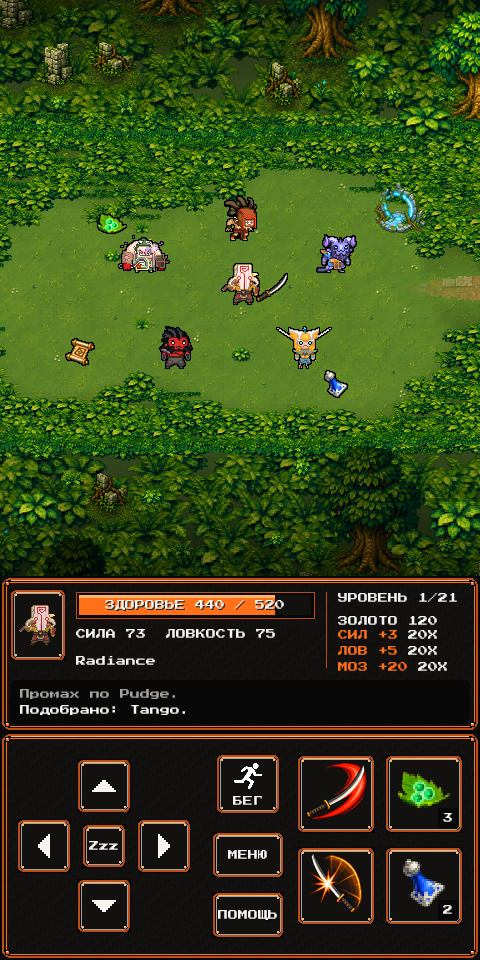
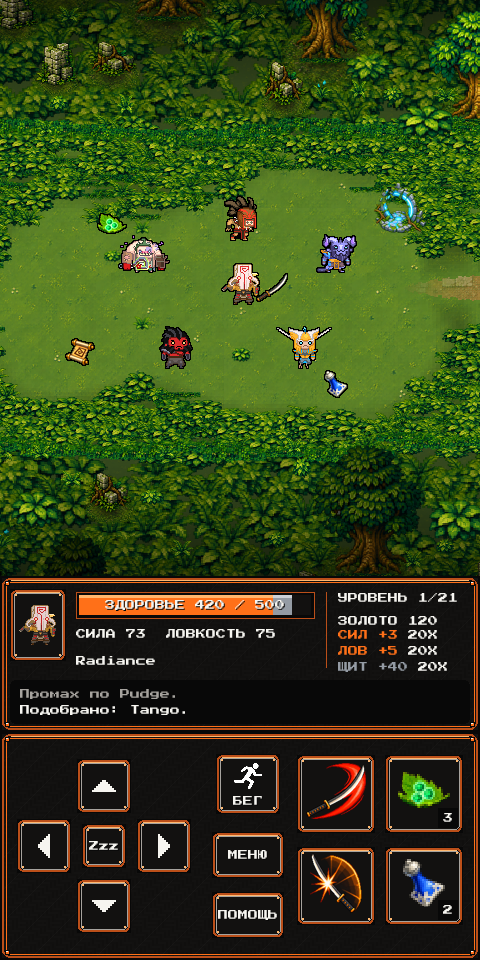
Keep enemies off the portal and fix Riki; reshoot README media
No enemy walks, steps or blinks onto the portal any more. Riki walks when
he is outside a room instead of standing in a corridor for good, never
blinks onto his own cell, and starts hidden on a new level. The golden
replay is regenerated for the new enemy movement. README screenshots and
fight GIFs are reshot with the Clarity shield, and the README describes
the shield, Riki and the portal.

diff --git a/internal/domain/opponent.go b/internal/domain/opponent.go
@@ -126,11 +126,13 @@ func baseStats(t OpponentType) (health, agility, strength int, h hostility) {
 }
 
 // NewOpponent создаёт врага заданного типа (для тестов и точечных спавнов).
+// Riki с самого начала невидим, иначе до первого хода врагов его было бы
+// видно на каждом новом уровне.
 func NewOpponent(t OpponentType) *Opponent {
 	health, agility, strength, h := baseStats(t)
 	return &Opponent{
 		Type: t, Health: health, Agility: agility, Strength: strength,
-		hostility: h, IsVisible: true, Facing: 1, vampireFirstStrike: true,
+		hostility: h, IsVisible: t != Ghost, Facing: 1, vampireFirstStrike: true,
 	}
 }
 
@@ -200,17 +202,26 @@ func shuffled(src []Point, rng ...*rand.Rand) []Point {
 	return out
 }
 
-// canStep — можно ли врагу встать на клетку: пол комнаты или коридор,
-// не занятые другим живым врагом.
-func (o *Opponent) canStep(x, y int, player Point, rooms []*Room, passages []Rect, opponents []*Opponent) bool {
-	// The hero's cell is never free: enemies attack it from next to it instead.
-	if !InBounds(x, y) || (Point{x, y}) == player {
+// moveArea: всё, от чего зависит ход врага: где стоят игрок и портал, где
+// пол и кто ещё на уровне.
+type moveArea struct {
+	player, exit Point
+	rooms        []*Room
+	passages     []Rect
+	opponents    []*Opponent
+}
+
+// canStep: можно ли врагу встать на клетку: пол комнаты или коридор, не
+// занятые другим живым врагом. Клетки игрока и портала всегда заняты: враг
+// бьёт игрока с соседней клетки, а портал никогда не загораживает.
+func (o *Opponent) canStep(x, y int, a moveArea) bool {
+	if !InBounds(x, y) || (Point{x, y}) == a.player || (Point{x, y}) == a.exit {
 		return false
 	}
-	if !IsAnyRoomFloorCell(x, y, rooms) && !InPassageCenter(x, y, passages) {
+	if !IsAnyRoomFloorCell(x, y, a.rooms) && !InPassageCenter(x, y, a.passages) {
 		return false
 	}
-	for _, other := range opponents {
+	for _, other := range a.opponents {
 		if other != o && other.IsAlive() && other.X == x && other.Y == y {
 			return false
 		}
@@ -218,9 +229,9 @@ func (o *Opponent) canStep(x, y int, player Point, rooms []*Room, passages []Rec
 	return true
 }
 
-// pathStep — первый шаг кратчайшего пути к цели (обход в ширину) или nil.
-func (o *Opponent) pathStep(tx, ty int, rooms []*Room, passages []Rect, opponents []*Opponent) *Point {
-	player := Point{tx, ty}
+// pathStep: первый шаг кратчайшего пути к игроку (обход в ширину) или nil.
+func (o *Opponent) pathStep(a moveArea) *Point {
+	tx, ty := a.player.X, a.player.Y
 	if o.X == tx && o.Y == ty {
 		return nil
 	}
@@ -244,7 +255,7 @@ func (o *Opponent) pathStep(tx, ty int, rooms []*Room, passages []Rect, opponent
 				return step
 			}
 			p := Point{nx, ny}
-			if !visited[p] && o.canStep(nx, ny, player, rooms, passages, opponents) {
+			if !visited[p] && o.canStep(nx, ny, a) {
 				visited[p] = true
 				queue = append(queue, node{nx, ny, step})
 			}
@@ -254,26 +265,31 @@ func (o *Opponent) pathStep(tx, ty int, rooms []*Room, passages []Rect, opponent
 }
 
 // patternStep — ход по собственному паттерну типа, когда игрок не преследуется.
-func (o *Opponent) patternStep(player Point, rooms []*Room, passages []Rect, opponents []*Opponent) *Point {
+func (o *Opponent) patternStep(a moveArea) *Point {
 	switch o.Type {
 	case Zombie:
-		return o.firstWalkable(shuffled(dirs4, o.rng), player, rooms, passages, opponents)
+		return o.firstWalkable(shuffled(dirs4, o.rng), a)
 	case Vampire:
-		return o.firstWalkable(shuffled(dirs8, o.rng), player, rooms, passages, opponents)
+		return o.firstWalkable(shuffled(dirs8, o.rng), a)
 	case Ghost:
-		return o.blinkInRoom(player, rooms, passages, opponents)
+		if step := o.blinkInRoom(a); step != nil {
+			return step
+		}
+		// Blinks need a room: in a corridor or a doorway Riki walks, or he
+		// would stand there for good, mostly invisible, blocking the way.
+		return o.firstWalkable(shuffled(dirs4, o.rng), a)
 	case Ogre:
-		return o.doubleStep(player, rooms, passages, opponents)
+		return o.doubleStep(a)
 	case Snake:
-		return o.diagonalStep(player, rooms, passages, opponents)
+		return o.diagonalStep(a)
 	}
 	return nil
 }
 
 // firstWalkable возвращает первое проходимое направление из списка.
-func (o *Opponent) firstWalkable(candidates []Point, player Point, rooms []*Room, passages []Rect, opponents []*Opponent) *Point {
+func (o *Opponent) firstWalkable(candidates []Point, a moveArea) *Point {
 	for _, d := range candidates {
-		if o.canStep(o.X+d.X, o.Y+d.Y, player, rooms, passages, opponents) {
+		if o.canStep(o.X+d.X, o.Y+d.Y, a) {
 			dd := d
 			return &dd
 		}
@@ -281,10 +297,11 @@ func (o *Opponent) firstWalkable(candidates []Point, player Point, rooms []*Room
 	return nil
 }
 
-// blinkInRoom — Riki телепортируется в случайную клетку своей комнаты.
-func (o *Opponent) blinkInRoom(player Point, rooms []*Room, passages []Rect, opponents []*Opponent) *Point {
+// blinkInRoom: Riki телепортируется в случайную другую клетку своей комнаты;
+// nil, если он не в комнате или свободной клетки не нашлось.
+func (o *Opponent) blinkInRoom(a moveArea) *Point {
 	var room *Room
-	for _, r := range rooms {
+	for _, r := range a.rooms {
 		if r != nil && r.IsFloorCell(o.X, o.Y) {
 			room = r
 			break
@@ -296,7 +313,7 @@ func (o *Opponent) blinkInRoom(player Point, rooms []*Room, passages []Rect, opp
 	for i := 0; i < 16; i++ {
 		nx := room.X + random(o.rng).Intn(room.W)
 		ny := room.Y + random(o.rng).Intn(room.H)
-		if o.canStep(nx, ny, player, rooms, passages, opponents) {
+		if (nx != o.X || ny != o.Y) && o.canStep(nx, ny, a) {
 			return &Point{nx - o.X, ny - o.Y}
 		}
 	}
@@ -304,10 +321,10 @@ func (o *Opponent) blinkInRoom(player Point, rooms []*Room, passages []Rect, opp
 }
 
 // doubleStep — Axe шагает на две клетки, если свободны обе.
-func (o *Opponent) doubleStep(player Point, rooms []*Room, passages []Rect, opponents []*Opponent) *Point {
+func (o *Opponent) doubleStep(a moveArea) *Point {
 	for _, d := range shuffled(dirs4, o.rng) {
-		if o.canStep(o.X+d.X, o.Y+d.Y, player, rooms, passages, opponents) &&
-			o.canStep(o.X+d.X*OgreStep, o.Y+d.Y*OgreStep, player, rooms, passages, opponents) {
+		if o.canStep(o.X+d.X, o.Y+d.Y, a) &&
+			o.canStep(o.X+d.X*OgreStep, o.Y+d.Y*OgreStep, a) {
 			return &Point{d.X * OgreStep, d.Y * OgreStep}
 		}
 	}
@@ -315,12 +332,12 @@ func (o *Opponent) doubleStep(player Point, rooms []*Room, passages []Rect, oppo
 }
 
 // diagonalStep — Skywrath ходит по диагонали, стараясь не повторять прошлый шаг.
-func (o *Opponent) diagonalStep(player Point, rooms []*Room, passages []Rect, opponents []*Opponent) *Point {
+func (o *Opponent) diagonalStep(a moveArea) *Point {
 	for _, d := range shuffled(diag4, o.rng) {
 		if o.lastDirection != nil && *o.lastDirection == d {
 			continue
 		}
-		if o.canStep(o.X+d.X, o.Y+d.Y, player, rooms, passages, opponents) {
+		if o.canStep(o.X+d.X, o.Y+d.Y, a) {
 			dd := d
 			o.lastDirection = &dd
 			return &dd
@@ -328,27 +345,29 @@ func (o *Opponent) diagonalStep(player Point, rooms []*Room, passages []Rect, op
 	}
 	if o.lastDirection != nil {
 		d := *o.lastDirection
-		if o.canStep(o.X+d.X, o.Y+d.Y, player, rooms, passages, opponents) {
+		if o.canStep(o.X+d.X, o.Y+d.Y, a) {
 			return &d
 		}
 	}
 	return nil
 }
 
-// Move двигает врага: преследует игрока по кратчайшему пути либо идёт по паттерну.
-func (o *Opponent) Move(px, py int, rooms []*Room, passages []Rect, opponents []*Opponent) {
+// Move двигает врага: преследует игрока по кратчайшему пути либо идёт по
+// паттерну. На клетку портала exit враг не встаёт.
+func (o *Opponent) Move(px, py int, exit Point, rooms []*Room, passages []Rect, opponents []*Opponent) {
+	a := moveArea{player: Point{px, py}, exit: exit, rooms: rooms, passages: passages, opponents: opponents}
 	dist := abs(o.X-px) + abs(o.Y-py)
 
 	var step *Point
 	if o.CanSeePlayer(dist) {
 		o.IsChasing = true
-		step = o.pathStep(px, py, rooms, passages, opponents)
+		step = o.pathStep(a)
 	}
 	if step == nil {
 		if o.IsChasing && dist > HighHostilityRadius*2 {
 			o.IsChasing = false
 		}
-		step = o.patternStep(Point{px, py}, rooms, passages, opponents)
+		step = o.patternStep(a)
 	}
 	if step == nil {
 		return

diff --git a/internal/domain/enemy_overlap_test.go b/internal/domain/enemy_overlap_test.go
@@ -16,7 +16,7 @@ func TestRikiNeverBlinksOntoTheHero(t *testing.T) {
 		o.X, o.Y = 10, 10
 		room.Enemies = []*Opponent{o}
 		for i := 0; i < 20; i++ {
-			o.Move(hero.X, hero.Y, rooms, nil, room.Enemies)
+			o.Move(hero.X, hero.Y, Point{-1, -1}, rooms, nil, room.Enemies)
 			if (Point{o.X, o.Y}) == hero {
 				t.Fatalf("seed %d: Riki blinked onto the hero", seed)
 			}
@@ -38,6 +38,67 @@ func TestEnemiesNeverShareTheHeroCell(t *testing.T) {
 					t.Fatalf("seed %d turn %d: %s stands on the hero", seed, turn, o.Type.DisplayName())
 				}
 			}
+		}
+	}
+}
+
+// Riki's blink used to pick any free cell of the room, the portal included.
+func TestRikiNeverBlinksOntoThePortal(t *testing.T) {
+	room := &Room{X: 10, Y: 10, W: 3, H: 1}
+	rooms := []*Room{room}
+	hero, exit := Point{40, 40}, Point{12, 10}
+	for seed := int64(0); seed < 200; seed++ {
+		o := NewOpponent(Ghost)
+		o.rng = rand.New(rand.NewSource(seed))
+		o.X, o.Y = 10, 10
+		room.Enemies = []*Opponent{o}
+		for i := 0; i < 20; i++ {
+			o.Move(hero.X, hero.Y, exit, rooms, nil, room.Enemies)
+			if (Point{o.X, o.Y}) == exit {
+				t.Fatalf("seed %d: Riki blinked onto the portal", seed)
+			}
+			if (Point{o.X, o.Y}) == (Point{10, 10}) {
+				t.Fatalf("seed %d: Riki blinked onto his own cell", seed)
+			}
+			o.X, o.Y = 10, 10
+		}
+	}
+}
+
+// A blink needs a room: in a corridor Riki used to stand still for good.
+func TestRikiWalksOutOfACorridor(t *testing.T) {
+	corridor := []Rect{{X: 20, Y: 9, W: 10, H: 3}} // centre line y=10, x=21..28
+	for seed := int64(0); seed < 50; seed++ {
+		o := NewOpponent(Ghost)
+		o.rng = rand.New(rand.NewSource(seed))
+		o.X, o.Y = 24, 10
+		o.Move(60, 60, Point{-1, -1}, nil, corridor, []*Opponent{o})
+		if (Point{o.X, o.Y}) == (Point{24, 10}) || !InPassageCenter(o.X, o.Y, corridor) {
+			t.Fatalf("seed %d: Riki at %d,%d, want one step along the corridor", seed, o.X, o.Y)
+		}
+	}
+}
+
+// No enemy walks, steps twice or blinks onto the portal.
+func TestEnemiesNeverStandOnThePortal(t *testing.T) {
+	for seed := int64(1); seed <= 40; seed++ {
+		s := NewSessionSeed(seed)
+		for turn := 0; turn < 1000 && s.Player.IsAlive() && !s.Won(); turn++ {
+			if err := s.ApplyAction(testAction(s)); err != nil {
+				t.Fatal(err)
+			}
+			if o := s.OpponentAt(s.Level.Exit.X, s.Level.Exit.Y); o != nil {
+				t.Fatalf("seed %d turn %d: %s stands on the portal", seed, turn, o.Type.DisplayName())
+			}
+		}
+	}
+}
+
+// Riki used to show on every new level until the enemies' first turn.
+func TestRikiStartsHidden(t *testing.T) {
+	for _, kind := range AllOpponentTypes {
+		if got := NewOpponent(kind).IsVisible; got != (kind != Ghost) {
+			t.Fatalf("%s starts visible=%v", kind.DisplayName(), got)
 		}
 	}
 }

diff --git a/internal/domain/replay_test.go b/internal/domain/replay_test.go
@@ -90,12 +90,12 @@ func TestReplayRejectsInvalidAndUnfinishedRuns(t *testing.T) {
 }
 
 func TestGoldenReplayMatchesServerOnEveryPlatform(t *testing.T) {
-	const actions = "sssddsssdddddddddddddddsssssssssddddwwwwwwaaaaaaaaaaaaaaawwwwwwwwwddddddddddddddddsssdddddddddddddddddsssssdddddddssssddddddddddsssssdddddddddddddddddssddddddddddddddsdddwwwwwwwwdwwaaaaaaaaaawwwwwwwwwwwwwaaaaassssssaassssaaaaaaaaaaaaaasssssssssssssdwwwwwwaaaaaaaaaaaaaaaaaaaaaaassaawssawaswsaaawwasswawswsaaaaaawaaaaaaaaaaaaaaaaaaaaaassaaaaassssssaaaaaaaaaasssssssaaaaaaaaaawwwwwwwddddddddwwwwwwwwddddddddddddddddddddddsdddddddddddddddddwwdddddddddddddddddddsssssssssssddssssssssssssaasssssssssssssssddddddssssaaaawddddwwwwwaaaa"
+	const actions = "sssddsssdddddddddddddddsssssssssddddwwwwwwaaaaaaaaaaaaaaawwwwwwwwwddddddddddddddddsssdddddddddddddddddsssssdddddddssssddddddddddssssssssswdddddddddddssddddddddddddddsdddddddddsssssaaaaaaaaassssssssssssssssdddddddddddsssddddddssssaaaasssaaaaaasssaaaaaaaaaaaawwwwwwaaaaaaaaaaaaaaaaaaaaawaaaaawwwwaawwaaaaawwwwaaaazaaaaaazaaasddsssdddddsssddddddddddddddddddddssssssdddddsdddddddddddddddddwdddddddddwwwaaaaaaaaaaawwwwdddddddddwwwwwwwwwwaaaasssaaaaaaaaaawwwwaaawaaaaawwwwaaaawwwaaawsaaaaaaasddddssdssssaaaaaaaaaaaaaaaaasssssaaaaaaaaaaaaaasassssssssaaaaaaaaaaa"
 	s, err := Replay(1, actions)
 	if err != nil {
 		t.Fatal(err)
 	}
-	if s.Player.Treasures != 502 || s.Stats != (Stats{EnemiesKilled: 8, AttacksMade: 44, HitsTaken: 21, TilesMoved: 484}) {
+	if s.Player.Treasures != 600 || s.Stats != (Stats{EnemiesKilled: 10, AttacksMade: 46, HitsTaken: 22, TilesMoved: 506}) {
 		t.Fatalf("rules version %s changed: gold=%d stats=%+v", RulesVersion, s.Player.Treasures, s.Stats)
 	}
 }

diff --git a/backend/tests/test_leaderboard.py b/backend/tests/test_leaderboard.py
@@ -28,11 +28,11 @@ def test_server_recomputes_score(client):
     assert response.status_code == 201
     body = response.json()
     assert body["player_name"] == "tester"
-    assert body["treasures"] == 502
-    assert body["enemies_killed"] == 8
-    assert body["attacks_made"] == 44
-    assert body["hits_taken"] == 21
-    assert body["tiles_moved"] == 484
+    assert body["treasures"] == 600
+    assert body["enemies_killed"] == 10
+    assert body["attacks_made"] == 46
+    assert body["hits_taken"] == 22
+    assert body["tiles_moved"] == 506
     assert body["verified"] is True
     assert "ticket" not in body and "actions" not in body
 
@@ -105,14 +105,14 @@ def test_submission_reports_place_and_top10_gold(client):
     level = first["level"]
     for gold in [900, 800, 100]:
         client.seed_run(player_name="legacy", treasures=gold, level=level)
-    client.seed_run(player_name="legacy", treasures=502, level=level + 1)
+    client.seed_run(player_name="legacy", treasures=600, level=level + 1)
     body = submit(client, start(client)).json()
-    # 900, 800, the deeper 502 and the earlier equal 502 all rank ahead.
+    # 900, 800, the deeper 600 and the earlier equal 600 all rank ahead.
     assert body["place"] == 5 and body["top10_gold"] is None
     for _ in range(4):
         client.seed_run(player_name="legacy", treasures=1000, level=1)
     body = submit(client, start(client)).json()
-    assert body["place"] == 10 and body["top10_gold"] == 502
+    assert body["place"] == 10 and body["top10_gold"] == 600
     rows = client.get("/api/leaderboard").json()
     assert rows[body["place"] - 1]["id"] == body["id"]
 

diff --git a/backend/tests/replay_fixture.py b/backend/tests/replay_fixture.py
@@ -1,2 +1,2 @@
 # Shared golden replay: seed 1, rules version 2 (balance rework). Also asserted by Go/WASM tests.
-ACTIONS = "sssddsssdddddddddddddddsssssssssddddwwwwwwaaaaaaaaaaaaaaawwwwwwwwwddddddddddddddddsssdddddddddddddddddsssssdddddddssssddddddddddsssssdddddddddddddddddssddddddddddddddsdddwwwwwwwwdwwaaaaaaaaaawwwwwwwwwwwwwaaaaassssssaassssaaaaaaaaaaaaaasssssssssssssdwwwwwwaaaaaaaaaaaaaaaaaaaaaaassaawssawaswsaaawwasswawswsaaaaaawaaaaaaaaaaaaaaaaaaaaaassaaaaassssssaaaaaaaaaasssssssaaaaaaaaaawwwwwwwddddddddwwwwwwwwddddddddddddddddddddddsdddddddddddddddddwwdddddddddddddddddddsssssssssssddssssssssssssaasssssssssssssssddddddssssaaaawddddwwwwwaaaa"
+ACTIONS = "sssddsssdddddddddddddddsssssssssddddwwwwwwaaaaaaaaaaaaaaawwwwwwwwwddddddddddddddddsssdddddddddddddddddsssssdddddddssssddddddddddssssssssswdddddddddddssddddddddddddddsdddddddddsssssaaaaaaaaassssssssssssssssdddddddddddsssddddddssssaaaasssaaaaaasssaaaaaaaaaaaawwwwwwaaaaaaaaaaaaaaaaaaaaawaaaaawwwwaawwaaaaawwwwaaaazaaaaaazaaasddsssdddddsssddddddddddddddddddddssssssdddddsdddddddddddddddddwdddddddddwwwaaaaaaaaaaawwwwdddddddddwwwwwwwwwwaaaasssaaaaaaaaaawwwwaaawaaaaawwwwaaaawwwaaawsaaaaaaasddddssdssssaaaaaaaaaaaaaaaaasssssaaaaaaaaaaaaaasassssssssaaaaaaaaaaa"

diff --git a/internal/domain/combat.go b/internal/domain/combat.go
@@ -147,7 +147,7 @@ func (s *Session) ProcessEnemyTurns() {
 
 	for _, o := range living {
 		if !inContact(o, p) {
-			o.Move(p.X, p.Y, s.Level.Rooms, s.Level.Passages, living)
+			o.Move(p.X, p.Y, s.Level.Exit, s.Level.Rooms, s.Level.Passages, living)
 			continue
 		}
 		o.FacePlayer(p.X)

diff --git a/README.md b/README.md
@@ -188,7 +188,7 @@ Menu pages have their own BACK button; the mobile d-pad and item panel appear du
 |-------|----------|
 | **Pudge** | Slow and tough. Wanders randomly. |
 | **Bloodseeker** | Steals max HP on hit. Deflects the player's first attack. Moves in 8 directions. |
-| **Riki** | Blinks around the room, mostly invisible until he attacks. |
+| **Riki** | Blinks around the room and walks through corridors, mostly invisible until he attacks. |
 | **Axe** | Moves 2 tiles per turn. Rests after attacking, then counters. His strikes cannot be dodged. |
 | **Skywrath Mage** | Moves and attacks diagonally. Hits may put the player to sleep. |
 
@@ -201,7 +201,7 @@ Rooms hold more enemies and fewer items deeper down.
 | Item | Effect |
 |------|--------|
 | Food (Tango) | Restores health by depth, not by max HP: 25-50 on level 1 up to 75-150 on level 21, never above max HP. |
-| Elixir (Clarity) | Temporary buff to strength, agility or max HP for 20 turns, twice a scroll of the same depth. |
+| Elixir (Clarity) | For 20 turns, twice a scroll of the same depth: a buff to strength or agility, or a shield that takes damage and Bloodseeker's max HP drain before health and max HP. Whatever is left of the shield when it ends is gone. |
 | Scroll (TP Scroll artwork) | Read on pickup: permanent buff to one stat, growing with depth (strength or agility +2…+3 on level 1 and +6…+9 on level 21; max HP +13…+25 and +63…+125, which also heals the same amount). Never takes a backpack slot. |
 | Weapon (Juggernaut blade) | Bonus from +1 to +50, growing with depth: +1…+17 on level 1, +36…+50 on level 21. The name shows the strength, ordered by Dota 2 item cost in steps of five: Crystalys (+1…+5), Yasha, Diffusal Blade, Shadow Blade, Desolator, Battle Fury, Radiance, Butterfly, Silver Edge, Abyssal Blade (+46…+50). The bonus adds to the Quelling Blade damage and scales with strength (about +1.2 damage per point at the starting strength). Equipped on pickup if it hits harder, so any weapon replaces the starter; otherwise it sharpens the equipped weapon by +1, so every weapon found makes you stronger. A sharpened weapon is renamed by its new bonus, e.g. Shadow Blade +20 becomes Desolator +21. |
 | Treasure | Credited for slain enemies; determines leaderboard rank. |
@@ -221,12 +221,14 @@ hero is asleep: the turn is skipped as usual.
 
 Item names are short Dota-inspired variants, including Phantom Clarity,
 Aghanim's Scroll and Yasha. Names do not change their category's effects.
-The HUD shows temporary STR, AGI and MAX HP bonuses (MHP on mobile).
+The HUD shows temporary STR, AGI and SHIELD bonuses (SHLD on mobile).
+The shield is also the grey part of the health bar, and a hit it takes whole
+shows as a grey number.
 Stacked bonuses are summed; their timer counts turns until the next partial expiry.
 
-The Dota-inspired artwork does not change item effects: Clarity is a stat buff,
-and the scroll is not a teleport. The exit is a blue-glowing portal —
-descending after floor 21 wins the run, and the
+The Dota-inspired artwork does not change item effects: Clarity is a stat buff
+or a shield, and the scroll is not a teleport. The exit is a blue-glowing portal
+that no enemy ever stands on. Descending after floor 21 wins the run, and the
 result is submitted to the global leaderboard.
 
 Ranked runs obtain a server-issued seed and ticket before starting. The server
